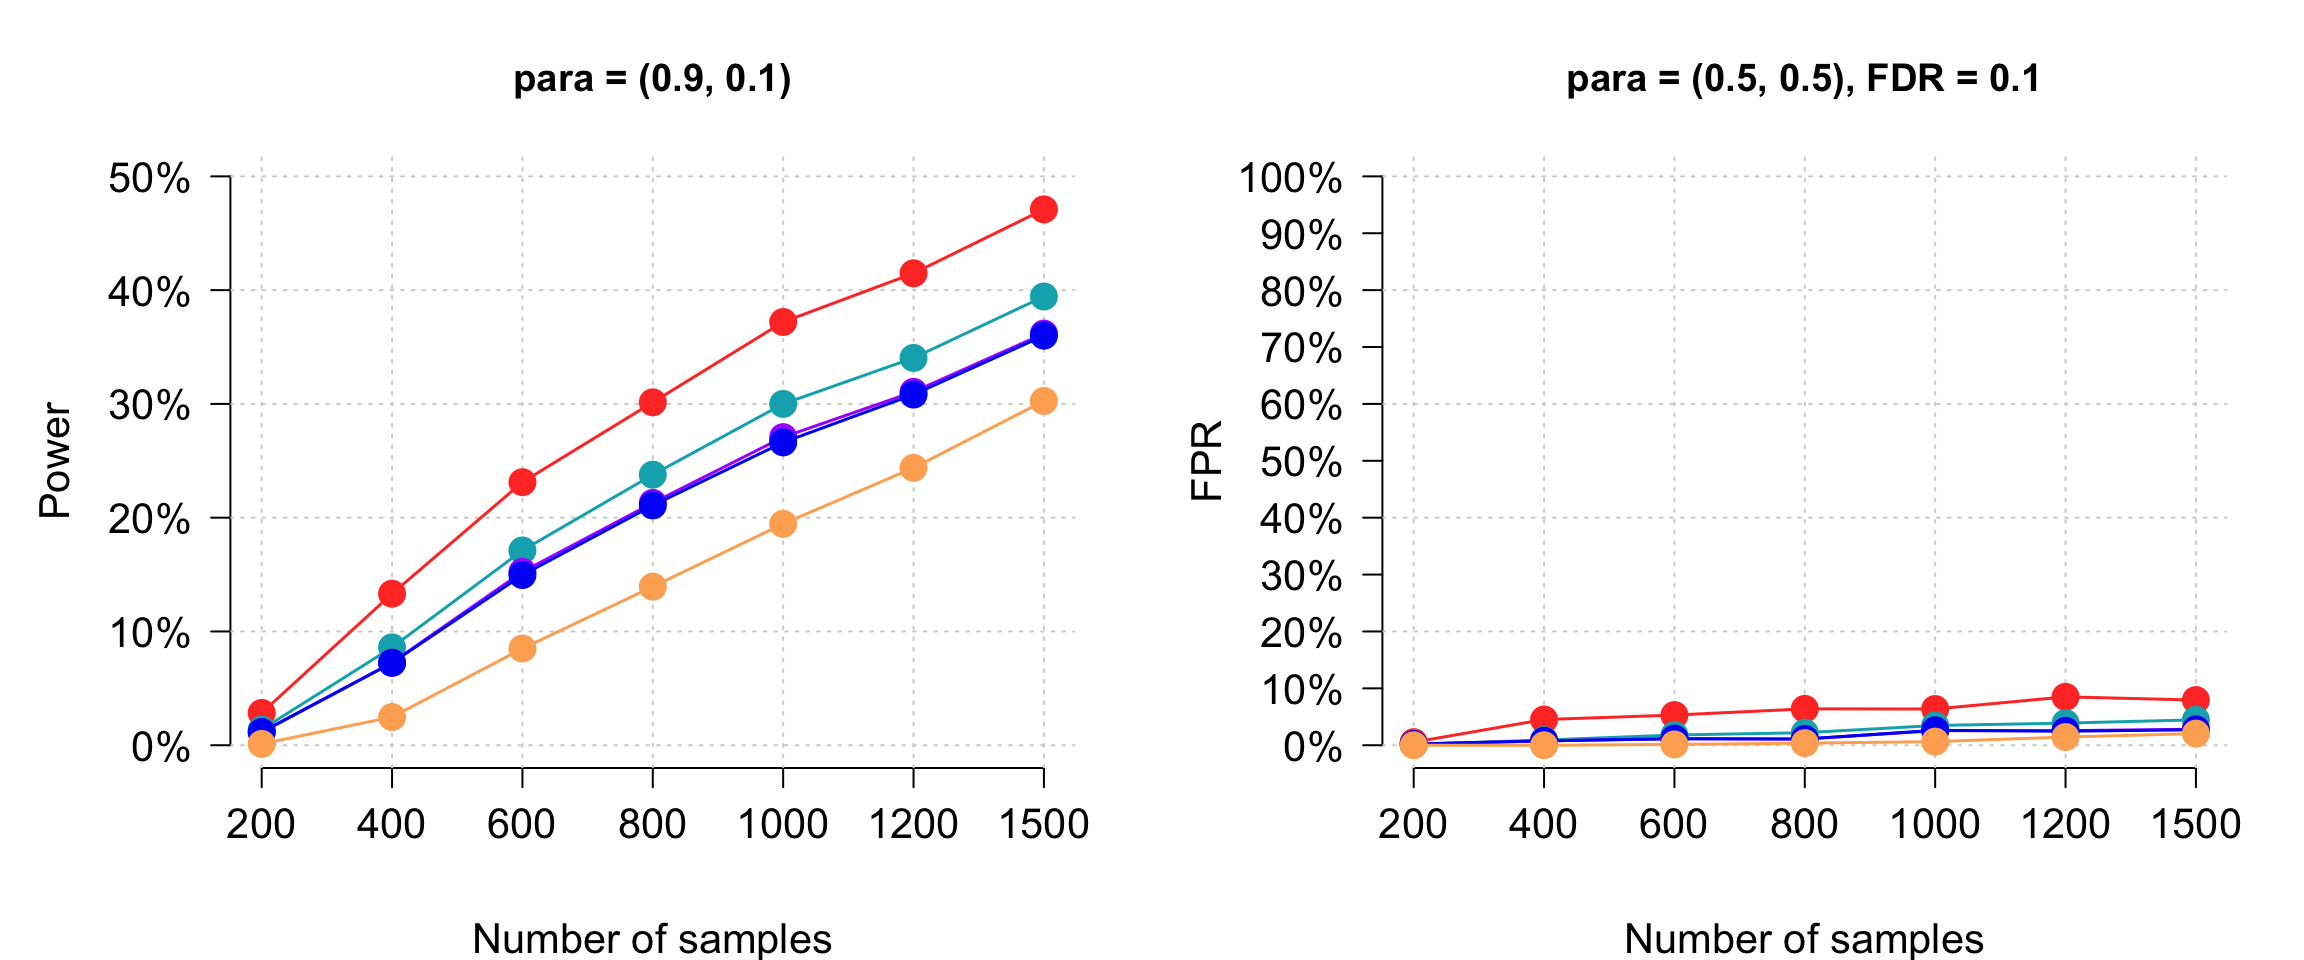
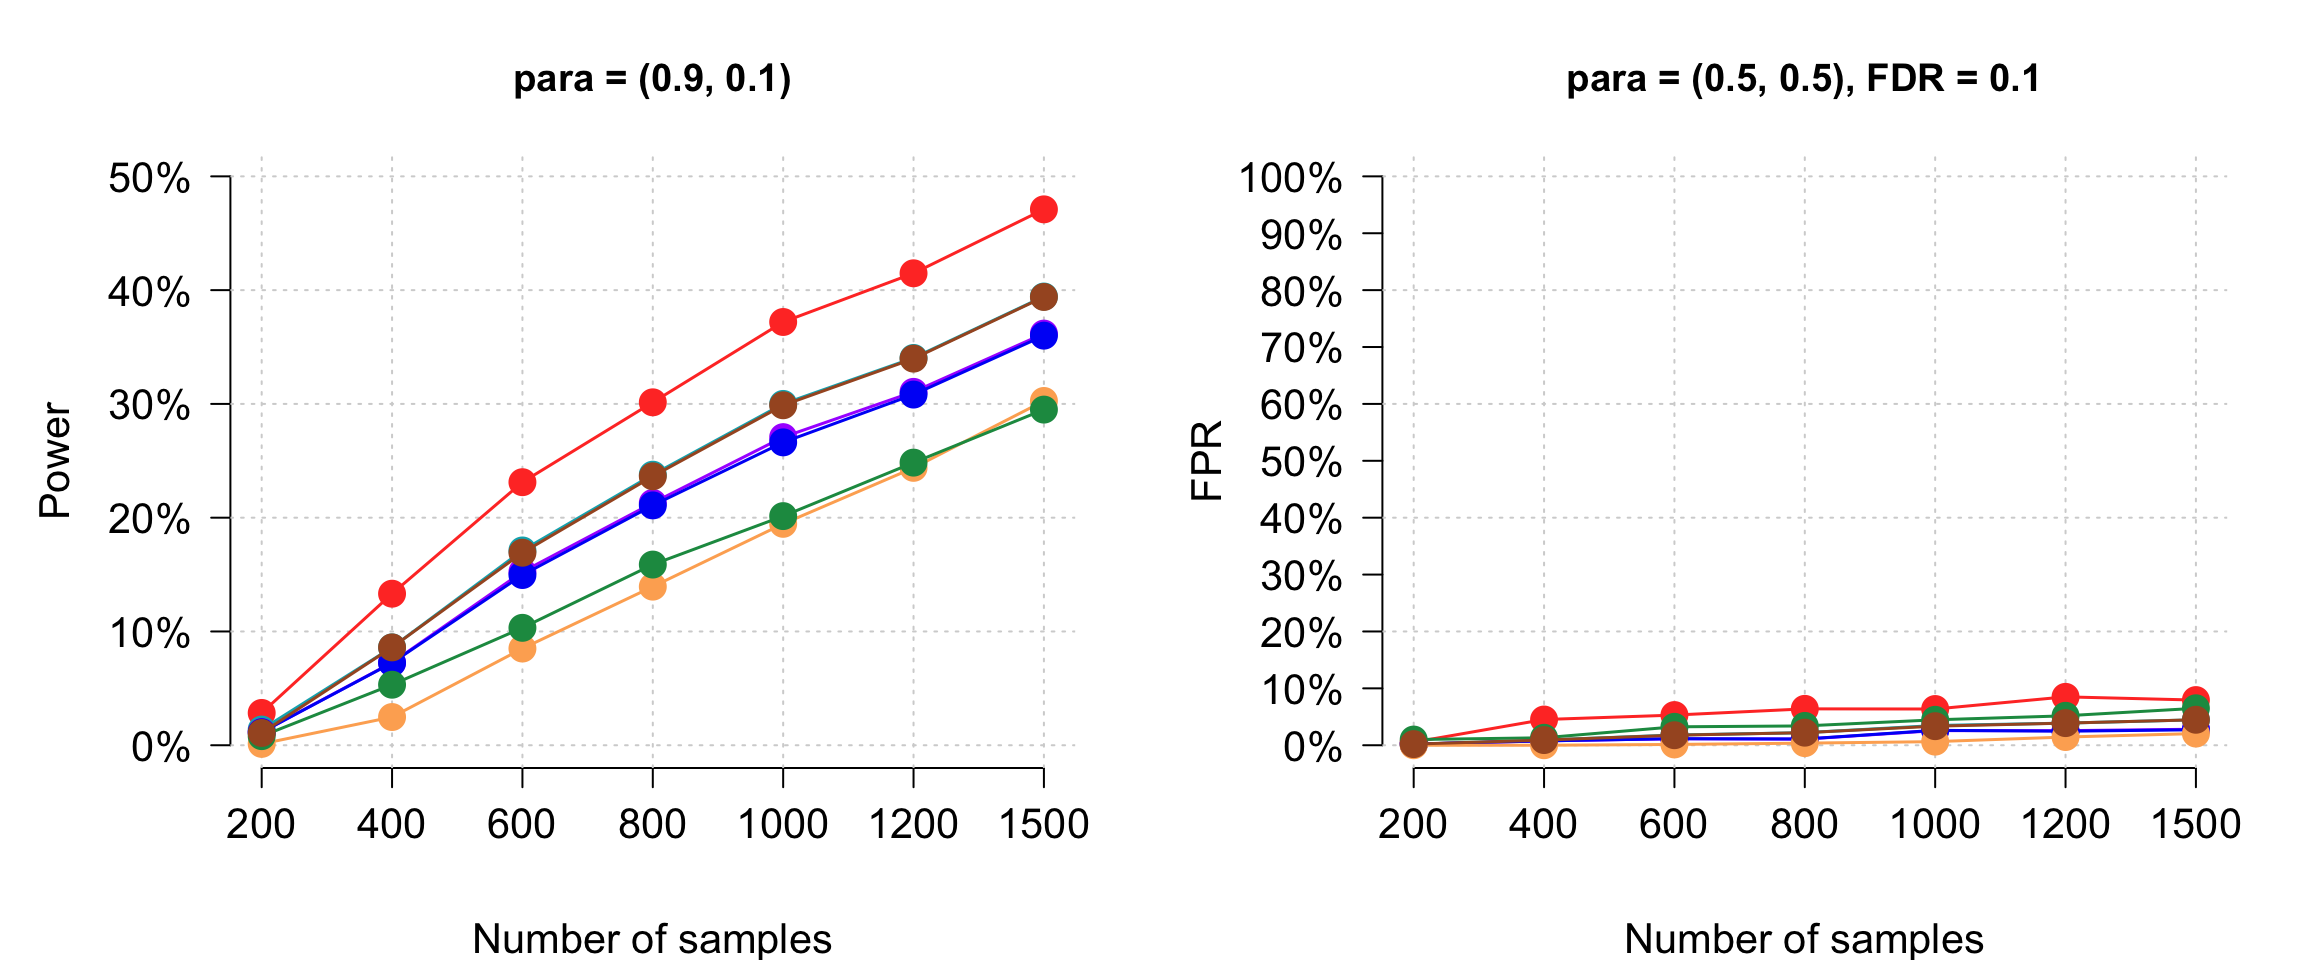
Add coselens + Mann-Whitney to all benchmark figures (all 6 settings)
Coselens (Phase A/B on saved raw cohorts, true BMR, continuous binarized by
median split) and Mann-Whitney (Wilcoxon rank-sum on per-gene mutation counts)
now appear on all 8 figures. Both control FPR; coselens gains power in the
stronger-signal settings (OG, para=0.9, betaf0=1).

diff --git a/docs/simulation-power.html b/docs/simulation-power.html
@@ -629,15 +629,15 @@ project makes it easier to run your code on other machines.</p>
 <div class="panel panel-default">
 <div class="panel-heading">
 <p class="panel-title">
-<a data-toggle="collapse" data-parent="#workflowr-checks" href="#strongRepositoryversionstrongahrefhttpsgithubcomszhaolabDiffDriverPAPERtree75326b2c75913e662bfd93378420faafb4f3c619targetblank75326b2a">
+<a data-toggle="collapse" data-parent="#workflowr-checks" href="#strongRepositoryversionstrongahrefhttpsgithubcomszhaolabDiffDriverPAPERtree60a4e51117b2c3fe69f5f2561dd7d670304366betargetblank60a4e51a">
 <span class="glyphicon glyphicon-ok text-success"
 aria-hidden="true"></span> <strong>Repository version:</strong>
-<a href="https://github.com/szhaolab/DiffDriver-PAPER/tree/75326b2c75913e662bfd93378420faafb4f3c619" target="_blank">75326b2</a>
+<a href="https://github.com/szhaolab/DiffDriver-PAPER/tree/60a4e51117b2c3fe69f5f2561dd7d670304366be" target="_blank">60a4e51</a>
 </a>
 </p>
 </div>
 <div
[2 lines of base64/hex data omitted]
 class="panel-collapse collapse">
 <div class="panel-body">
 <p>
@@ -647,7 +647,7 @@ reproducibility.
 </p>
 <p>
 The results in this page were generated with repository version
-<a href="https://github.com/szhaolab/DiffDriver-PAPER/tree/75326b2c75913e662bfd93378420faafb4f3c619" target="_blank">75326b2</a>.
+<a href="https://github.com/szhaolab/DiffDriver-PAPER/tree/60a4e51117b2c3fe69f5f2561dd7d670304366be" target="_blank">60a4e51</a>.
 See the <em>Past versions</em> tab to see a history of the changes made
 to the R Markdown and HTML files.
 </p>
@@ -713,6 +713,40 @@ Message
 </tr>
 </thead>
 <tbody>
+<tr>
+<td>
+Rmd
+</td>
+<td>
+<a href="https://github.com/szhaolab/DiffDriver-PAPER/blob/60a4e51117b2c3fe69f5f2561dd7d670304366be/analysis/simulation-power.Rmd" target="_blank">60a4e51</a>
+</td>
+<td>
+Siming
+</td>
+<td>
+2026-07-04
+</td>
+<td>
+Add Mann-Whitney test to the benchmark (TSG_binary_0.8)
+</td>
+</tr>
+<tr>
+<td>
+html
+</td>
+<td>
+<a href="https://rawcdn.githack.com/szhaolab/DiffDriver-PAPER/60a4e51117b2c3fe69f5f2561dd7d670304366be/docs/simulation-power.html" target="_blank">60a4e51</a>
+</td>
+<td>
+Siming
+</td>
+<td>
+2026-07-04
+</td>
+<td>
+Add Mann-Whitney test to the benchmark (TSG_binary_0.8)
+</td>
+</tr>
 <tr>
 <td>
 Rmd
@@ -1340,6 +1374,17 @@ Date
 </tr>
 </thead>
 <tbody>
+<tr>
+<td>
+<a href="https://github.com/szhaolab/DiffDriver-PAPER/blob/60a4e51117b2c3fe69f5f2561dd7d670304366be/docs/figure/simulation-power.Rmd/tsg-binary-08-1.png" target="_blank">60a4e51</a>
+</td>
+<td>
+Siming
+</td>
+<td>
+2026-07-04
+</td>
+</tr>
 <tr>
 <td>
 <a href="https://github.com/szhaolab/DiffDriver-PAPER/blob/75326b2c75913e662bfd93378420faafb4f3c619/docs/figure/simulation-power.Rmd/tsg-binary-08-1.png" target="_blank">75326b2</a>
